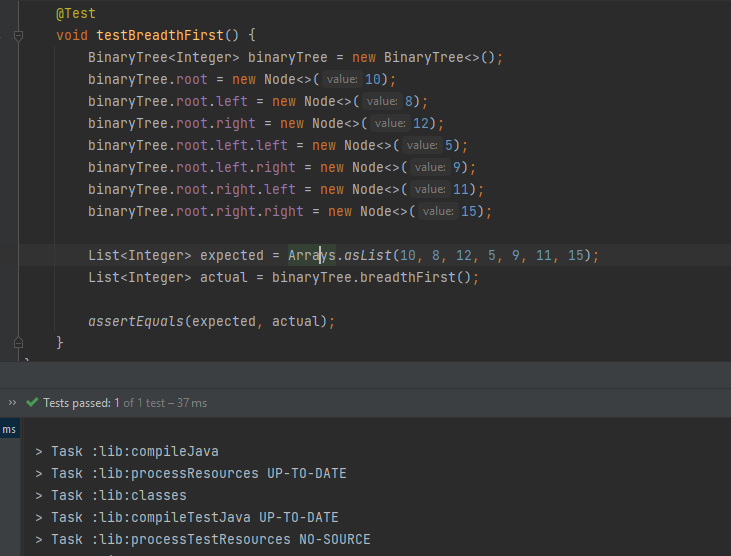
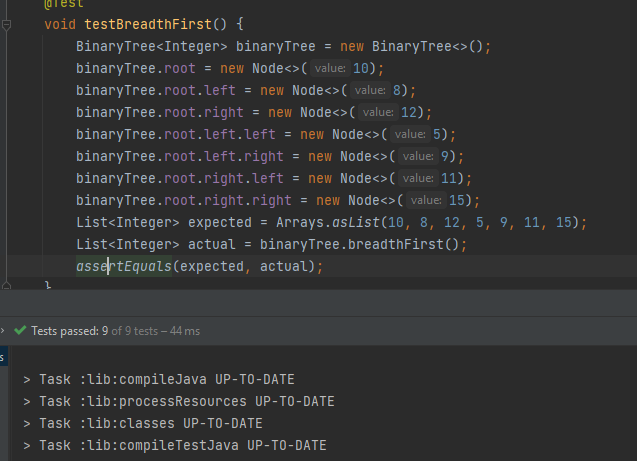
cc17

diff --git a/Tree/app/src/main/java/tree/BinaryTree.java b/Tree/app/src/main/java/tree/BinaryTree.java
@@ -54,16 +54,19 @@ public class BinaryTree<T> {
         postorderHelper(node.right, values);
         values.add(node.value);
     }
-    public T findMaximumValue() {
-        if (root == null) {
-            throw new NoSuchElementException("Binary Tree is empty!");
-        }
+    public  int findMaximumValue(Node node) {
+        if (node == null)
+            return Integer.MIN_VALUE;
 
-        Node<T> current = root;
-        while (current.right != null) {
-            current = current.right;
-        }
-        return current.value;
+        int result = (int) node.value;
+        int left = findMaximumValue(node.left);
+        int right = findMaximumValue(node.right);
+
+        if (left > result)
+            result = left;
+        if (right > result)
+            result = right;
+        return result;
     }
     public List<T> breadthFirst() {
         List<T> values = new ArrayList<>();

diff --git a/Tree/app/src/test/java/tree/TreeTests.java b/Tree/app/src/test/java/tree/TreeTests.java
@@ -131,7 +131,7 @@ class TreeTests {
         binaryTree.root.right.left = new Node<>(11);
         binaryTree.root.right.right = new Node<>(15);
 
-        int maxVal = binaryTree.findMaximumValue();
+        int maxVal = binaryTree.findMaximumValue(binaryTree.root);
         assertEquals(15, maxVal);
     }
     @Test
@@ -144,11 +144,12 @@ class TreeTests {
         binaryTree.root.left.right = new Node<>(9);
         binaryTree.root.right.left = new Node<>(11);
         binaryTree.root.right.right = new Node<>(15);
-
         List<Integer> expected = Arrays.asList(10, 8, 12, 5, 9, 11, 15);
         List<Integer> actual = binaryTree.breadthFirst();
-
         assertEquals(expected, actual);
     }
 }
+
+
+
 
